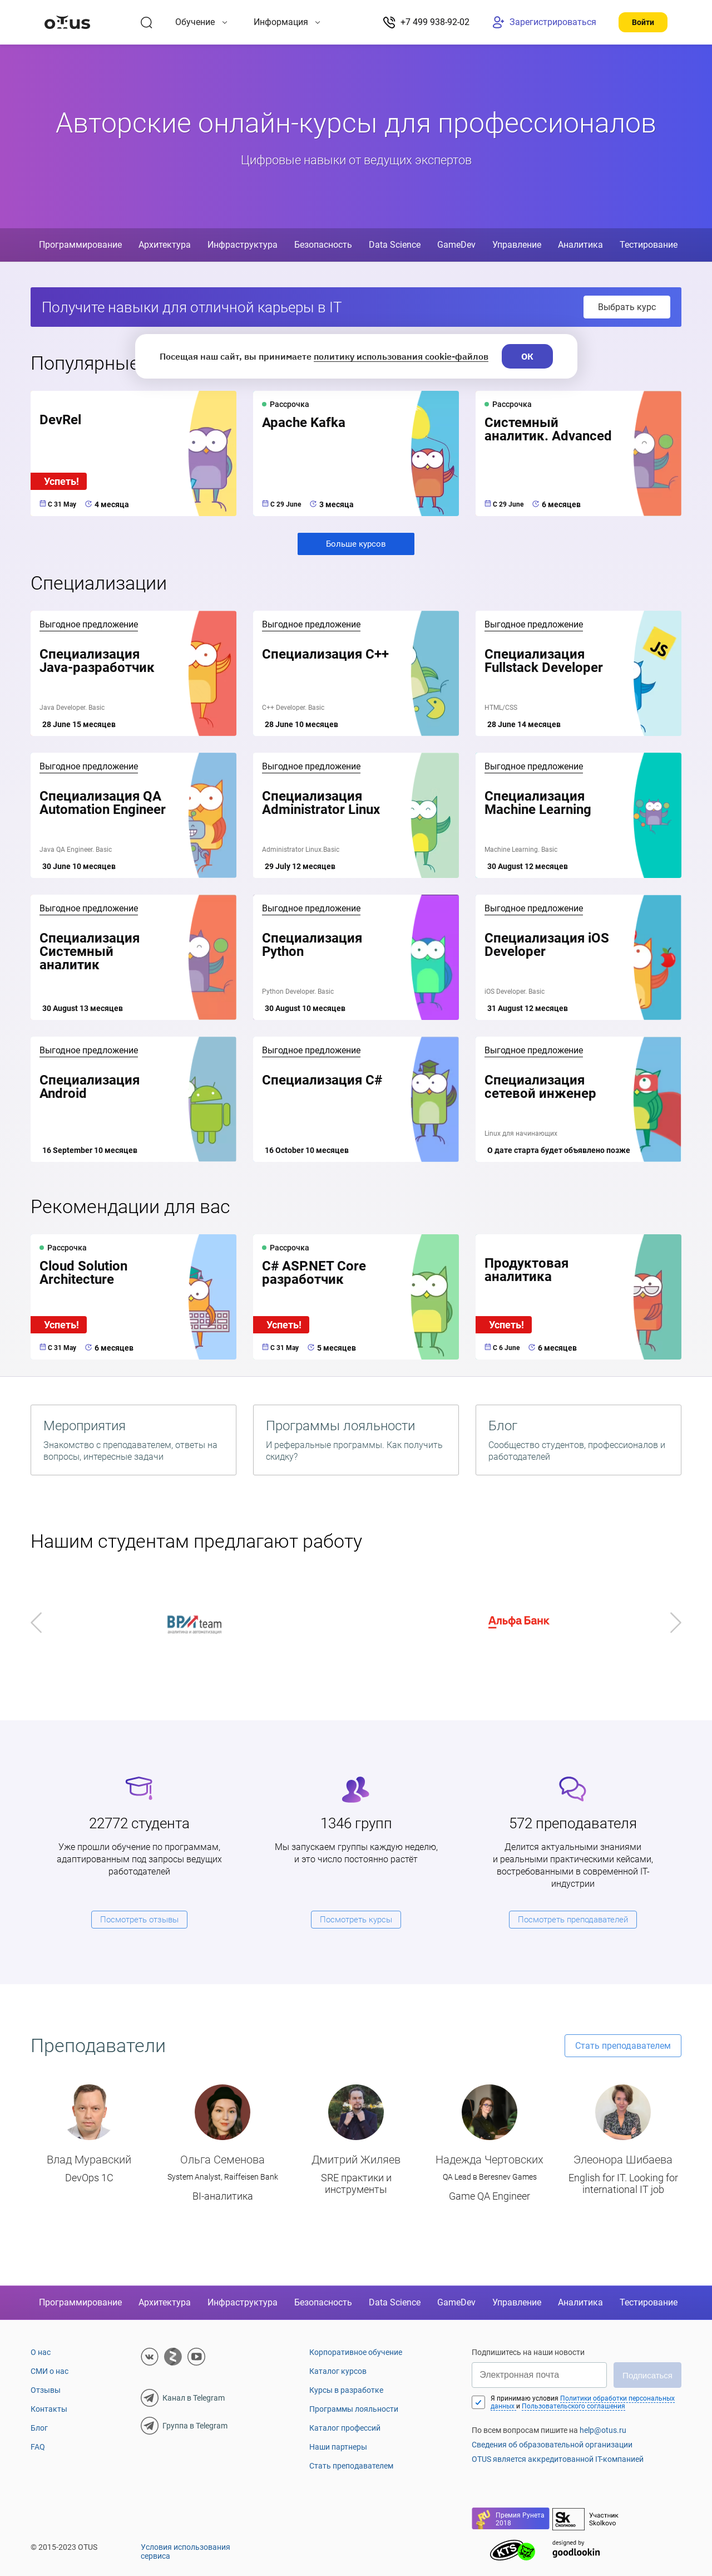
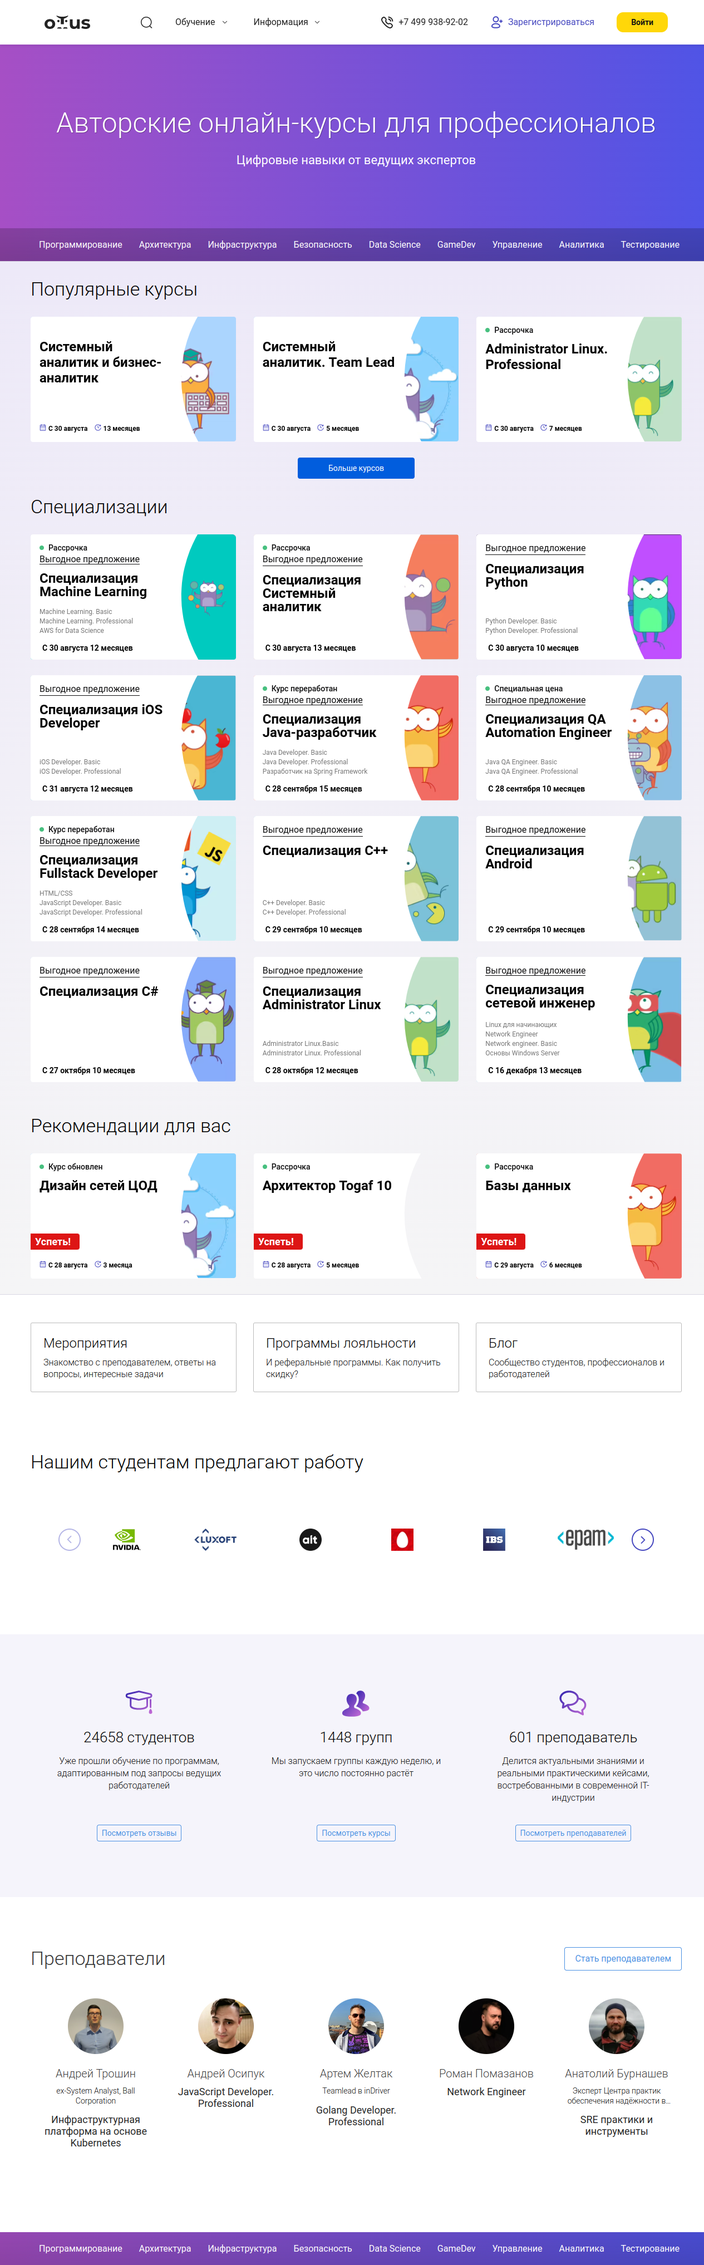
Commit

diff --git a/src/login.e2e.spec.js b/src/login.e2e.spec.js
@@ -18,21 +18,27 @@ const credentials = {
   password: 'pa$$w0rd'
 }
 
+// Те действия которые будем выполнять постоянно.
+// Запустить браузер - создать контехт - создать страницу.
 async function bootstrapTest() {
   browser = await playwright.chromium.launch({
     headless: false,
-    slowMo: 200
+    // slowMo: 2000 // Что это за опция?
   });
     
   context = await browser.newContext()
   page = await context.newPage()
 }
 
+// Закрытие.
+// Создать скриншот и закрыть браузер
 async function closeTest(testName) {
-  await page.screenshot({ path: `schreenshots/${testName}.png` })
-    await browser.close()
+  await page.screenshot({ path: `schreenshots/${timestamp}-${testName}.png` })
+  await browser.close()
 }
 
+// Сам логин
+//
 async function login(username, password) {
   await page.goto(loginUrl);
 
@@ -42,9 +48,15 @@ async function login(username, password) {
   await page.click(selectors.loginBtn);
 
   // waitFor
+  // waitFor (Something)
+  // Дожидаемся закгузки + выбрать отсечку
   await page.waitForLoadState('networkidle');
+
+  // Получаем сообщение из элемента
+  const msg = await page.locator(selectors.loginSuccess).textContent();
+  // Лучше получить token, положить его и сходить куда-нибудь.
   
-  return await page.locator(selectors.loginSuccess).textContent();
+  return msg;
 }
 
 describe('authenticationtest:login', () => {
@@ -61,6 +73,7 @@ describe('authenticationtest:login', () => {
     
     const title = await page.title()
     expect(title).to.equal('Authentication Test')
+    expect(page).toHaveScreenshot()
   })
 
   it('should successfully login and redirect to main page', async() => {

diff --git a/src/hello-world.js b/src/hello-world.js
@@ -5,7 +5,7 @@ const playwright = require('playwright');
 (async () => {
     // Мы запускаем браузер.
     const browser = await playwright.chromium.launch({
-      headless: false
+      headless: false // По умолчанию true
     });
 
     // Мы создали контекст.
@@ -13,18 +13,16 @@ const playwright = require('playwright');
     // Создаем новую страницу.
     const page = await context.newPage();
 
+    console.log('page run');
+
     // Переход на нужный url
     await page.goto('https://otus.ru/', {
       timeout: 60000
-    })
+    });
 
-    const title = (await page.locator('.title-new__text h1').textContent()).trim();
+    const title = (await page.locator('h2.sc-1r3ji37-2').textContent()).trim();
 
-    if (title === 'Авторские онлайн‑курсы для профессионалов') {
-      console.log('Все хорошо');
-    } else {
-      throw new Error('Ошибка');
-    }
+    console.log('title', title);
 
     // Мы делаем скриншот
     await page.screenshot({ path: `screenshots/example-chromium.png`, fullPage: true });
@@ -38,6 +36,5 @@ const playwright = require('playwright');
     //   headless: false,
     //   slowMo: 500,
     // }
-    
   // }
 })();

diff --git a/README.md b/README.md
@@ -10,3 +10,8 @@ Playwrigth example
 playwright. Headless браузером. Не использует чистые браузеры, а использует их движки.
 
 // npm install
+
+// Инструменты UI тестирования
+- умеют запускать браузер и открывать страницы
+- уметь взаимодействовать со страницей через API инструмента
+- иметь окружения для тестирования(репорты генерить, describe/assert)
